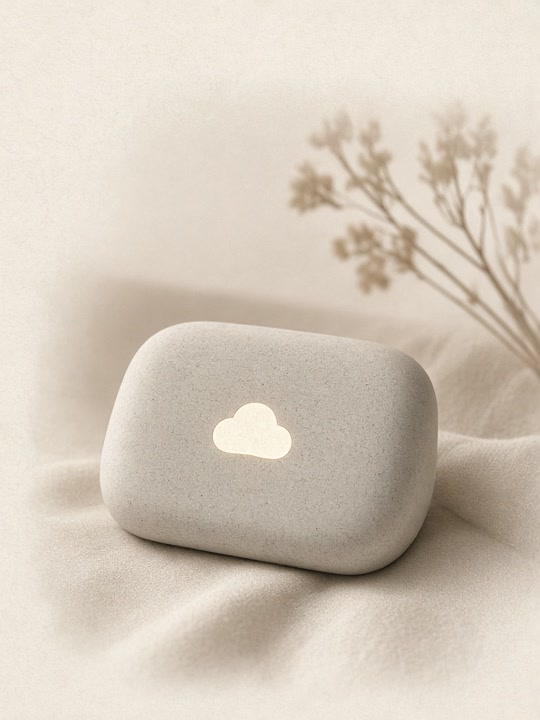
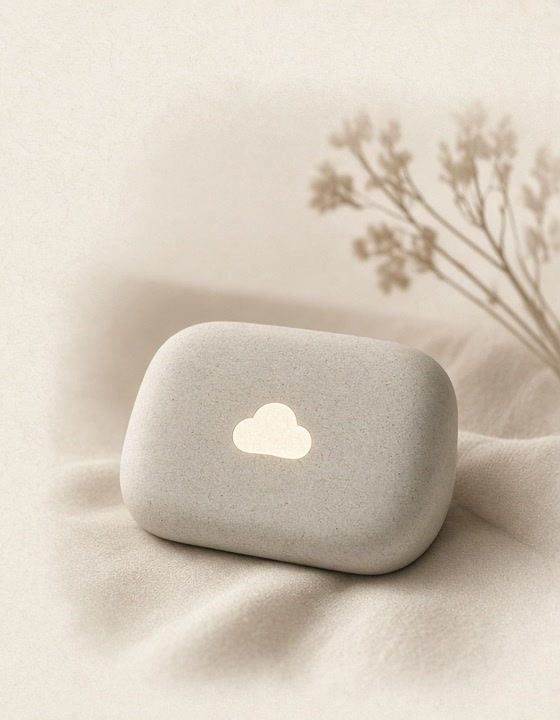
Match gemini-adapt mocks: split hero and unified waitlist
Rebuild against repo PNGs 01–05 — split AI MEMORY / IN THE CLOUD hero with a single pill waitlist and pebble crop from 01-hero.png, white Capture/Focus/Recall cards, Memory Timeline phone, quiet-place CTA, six-question FAQ. No Origin glass.

diff --git a/index.html b/index.html
@@ -83,17 +83,17 @@
 
     .hero {
       display: grid;
-      grid-template-columns: 1fr 1fr;
-      gap: 48px;
+      grid-template-columns: minmax(0, 1fr) minmax(0, 1fr);
+      gap: 40px;
       align-items: center;
-      padding: 48px 0 72px;
+      padding: 36px 0 80px;
     }
     .hero h1 {
       font-family: Oswald, sans-serif;
       font-weight: 500;
-      font-size: clamp(52px, 8vw, 92px);
-      line-height: 0.92;
-      letter-spacing: -0.01em;
+      font-size: clamp(56px, 8.4vw, 96px);
+      line-height: 0.88;
+      letter-spacing: -0.02em;
       text-transform: uppercase;
     }
     .rule {
@@ -109,16 +109,17 @@
       max-width: 36ch;
     }
     .hero-photo {
-      border-radius: 28px;
+      border-radius: 0;
       overflow: hidden;
-      min-height: 420px;
+      min-height: 520px;
+      margin: 0 -32px 0 0;
     }
     .hero-photo img {
       display: block;
       width: 100%;
       height: 100%;
       object-fit: cover;
-      min-height: 420px;
+      min-height: 520px;
     }
     .signup {
       display: flex;
@@ -127,6 +128,22 @@
       margin-top: 28px;
       flex-wrap: wrap;
     }
+    .signup.united {
+      display: inline-flex;
+      flex-wrap: nowrap;
+      gap: 0;
+      padding: 4px 4px 4px 4px;
+      border: 1px solid var(--line);
+      border-radius: 999px;
+      background: #F8F4EC;
+    }
+    .signup.united input {
+      border: 0;
+      background: transparent;
+      width: min(260px, 52vw);
+      padding: 12px 16px;
+    }
+    .signup.united input:focus { outline: none; }
     .signup input {
       width: min(280px, 100%);
       font-size: 15px;
@@ -149,6 +166,7 @@
       color: var(--foam);
       cursor: pointer;
       font-family: inherit;
+      white-space: nowrap;
     }
     .signup button:disabled { opacity: .55; cursor: wait; }
     .msg { margin-top: 12px; min-height: 1.3em; font-size: 14px; color: var(--muted); }
@@ -175,7 +193,7 @@
       min-height: 420px;
       display: flex;
       flex-direction: column;
-      box-shadow: 0 1px 0 rgba(22,21,15,.04);
+      box-shadow: 0 8px 28px rgba(22,21,15,.05);
     }
     .icon-circle {
       width: 42px;
@@ -422,10 +440,13 @@
       .hero, .features-grid, .how-grid { grid-template-columns: 1fr; }
       .nav { display: none; }
       .hero { padding-top: 24px; }
+      .hero-photo { margin: 0; min-height: 360px; border-radius: 20px; }
+      .hero-photo img { min-height: 360px; }
     }
     @media (max-width: 640px) {
       .signup { flex-direction: column; }
-      .signup input, .signup button { width: 100%; }
+      .signup.united { display: flex; width: 100%; }
+      .signup input, .signup button, .signup.united input { width: 100%; }
     }
   </style>
 </head>
@@ -452,7 +473,7 @@
         <h1 class="fade-in">AI memory<br>in the cloud</h1>
         <div class="rule fade-in d2"></div>
         <p class="lede fade-in d2">Cloud Mem remembers your conversations across tools so you can find what matters, when you need it.</p>
-        <form class="signup fade-in d3 waitlist-form" novalidate>
+        <form class="signup united fade-in d3 waitlist-form" novalidate>
           <input class="waitlist-email" type="email" name="email" placeholder="Enter your work email" autocomplete="email" required aria-label="Email for the Cloud Mem waitlist">
           <button type="submit">Join the waitlist →</button>
         </form>
@@ -570,7 +591,13 @@
         </div>
         <div class="phone reveal" aria-hidden="true">
           <div class="phone-screen">
-            <div class="phone-top"><span>Memory timeline</span><span aria-hidden="true">☁</span></div>
+            <div class="phone-top">
+              <span>Memory timeline</span>
+              <span class="brand" style="font-size:11px;letter-spacing:0;text-transform:none;gap:6px">
+                <svg width="14" height="10" viewBox="0 0 22 16" fill="none" aria-hidden="true"><path d="M16.6 6.2A5.1 5.1 0 0 0 6.8 5.4 4.2 4.2 0 0 0 2 9.4 3.7 3.7 0 0 0 5.6 14h11.2A4.2 4.2 0 0 0 16.6 6.2Z" fill="#16150F"/></svg>
+                Cloud Mem
+              </span>
+            </div>
             <div class="tl">
               <article class="tl-card">
                 <div class="k">Agent</div>
